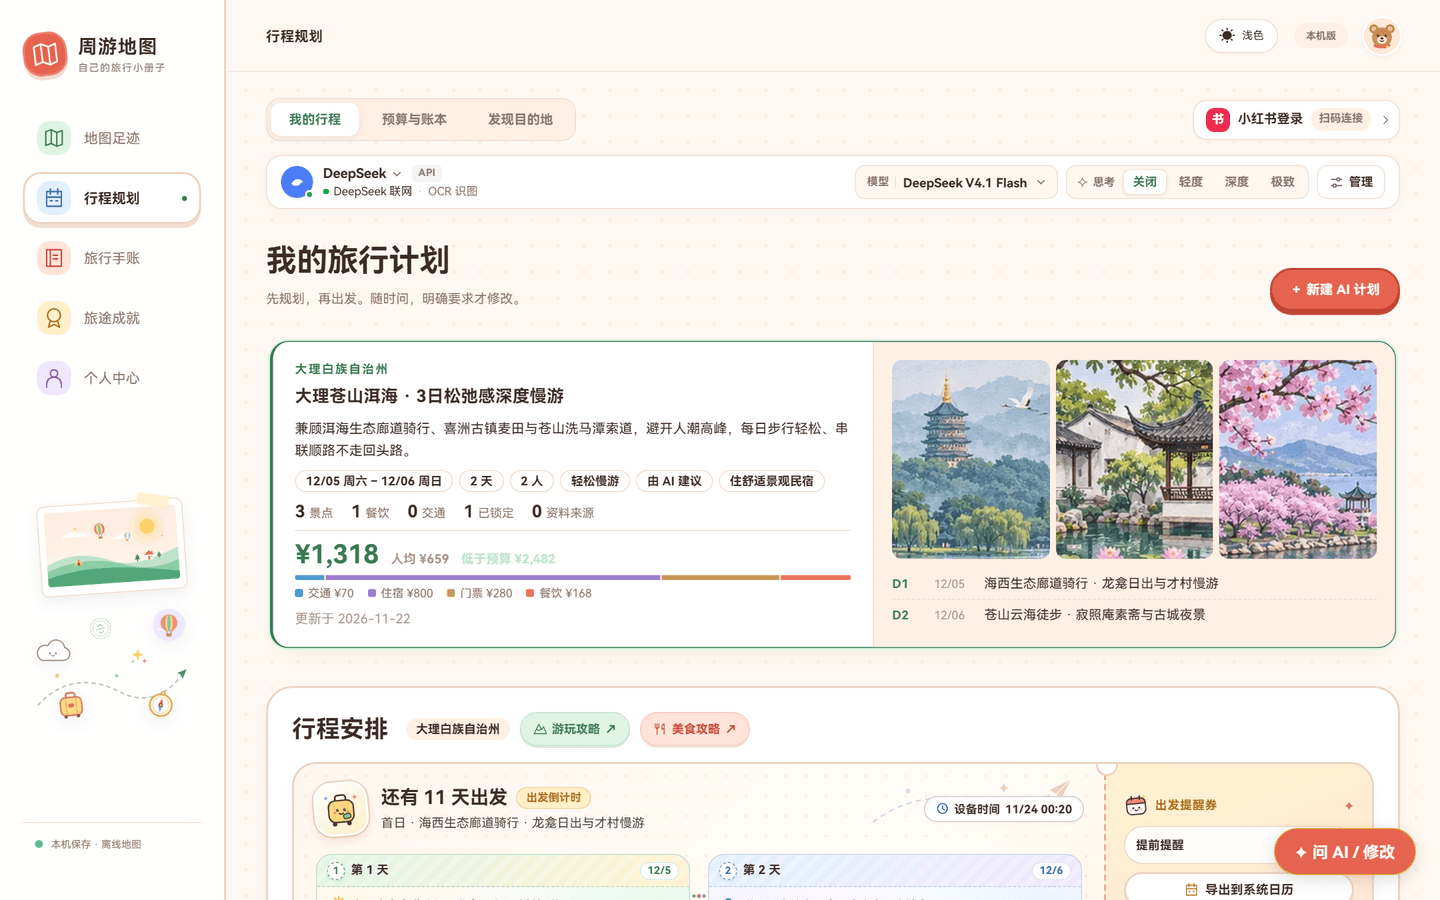
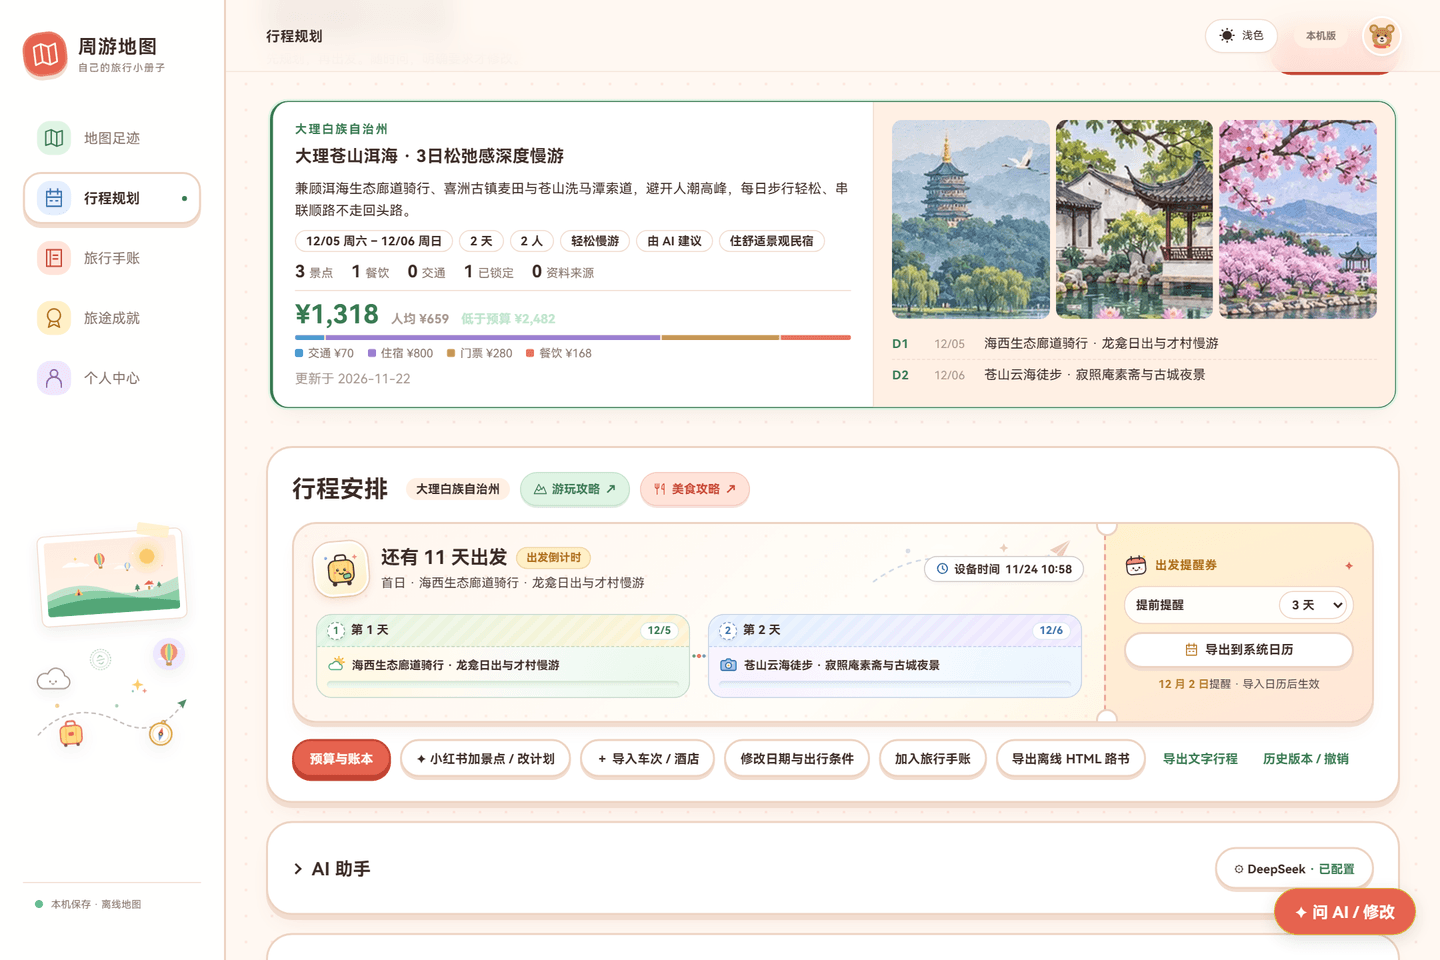
Add hero animated demo GIFs and refine README AI planner showcase

diff --git a/README.md b/README.md
@@ -37,11 +37,11 @@
 </p>
 
 <p>
+  <a href="https://eldonwyd.github.io/zhouyou-app/?demo=1"><b>🚀 一键在线试玩（含示例数据）</b></a>
+  &nbsp;·&nbsp;
   <a href="#-电脑版下载"><b>💻 电脑版下载</b></a>
   &nbsp;·&nbsp;
   <a href="#-手机版下载"><b>📱 手机版下载</b></a>
-  &nbsp;·&nbsp;
-  <a href="https://eldonwyd.github.io/zhouyou-app/"><b>✨ 在线网页版 (PWA)</b></a>
   &nbsp;·&nbsp;
   <a href="#-界面预览"><b>🖼 界面预览</b></a>
   &nbsp;·&nbsp;
@@ -49,6 +49,23 @@
   &nbsp;·&nbsp;
   <a href="#-开发者快速开始"><b>🛠 本地开发</b></a>
 </p>
+
+<br />
+
+<table>
+  <tr>
+    <td align="center" width="50%">
+      <img src="https://eldonwyd.github.io/zhouyou-app/screenshots/demo-ai-planner.gif" alt="AI 一键生成行程 → 地图自动连线 → 高铁票本地 OCR 自动记账" />
+      <br /><b>🤖 一句话生成行程 → 地图自动连线 → 高铁票本地 OCR 记账</b>
+    </td>
+    <td align="center" width="50%">
+      <img src="https://eldonwyd.github.io/zhouyou-app/screenshots/demo-map-journal.gif" alt="点亮中国省市地图 → 暖日手账与城市明信片 → 一键导出成就海报" />
+      <br /><b>🗺 一键点亮中国地图 → 暖日手账明信片 → 导出旅人成就海报</b>
+    </td>
+  </tr>
+</table>
+
+<p><sub>💡 第一次打开？直接点 <a href="https://eldonwyd.github.io/zhouyou-app/?demo=1"><b>在线演示模式（?demo=1）</b></a>，一键体验 14 座点亮城市、完整大理 AI 路书、照片手账与每日账本，随时一键清空。</sub></p>
 
 </div>
 
@@ -99,18 +116,18 @@
   <tr>
     <td align="center" width="50%">
       <img src="https://eldonwyd.github.io/zhouyou-app/screenshots/desktop-journal.png" alt="旅行手账与城市明信片" />
-      <br /><b>📔 旅行手账全景</b> — 每次旅程独立成册，自动匹配专属城市地标明信片
+      <br /><b>📔 旅行手账与城市明信片</b> — 每次旅程独立成册，珍藏原图照片、语音评语与专属城市明信片
     </td>
     <td align="center" width="50%">
-      <img src="https://eldonwyd.github.io/zhouyou-app/screenshots/desktop-trip-memories.png" alt="地点照片与旅途回忆墙" />
-      <br /><b>📸 照片记忆手账</b> — 按城市与地点珍藏原图照片、文字感悟与语音评语，随时翻阅重温
+      <img src="https://eldonwyd.github.io/zhouyou-app/screenshots/desktop-achievements.png" alt="旅途成就与成长路线" />
+      <br /><b>🏆 旅途成就与成长路线</b> — 八阶旅人成长里程碑、手作纪念章与一键导出分享海报
     </td>
   </tr>
 </table>
 
 <div align="center">
   <img src="https://eldonwyd.github.io/zhouyou-app/screenshots/desktop-planner.png" alt="AI 一键规划完整行程" width="100%" />
-  <p><i><b>🤖 AI 一键规划行程</b> —— 多模型自由切换，自动生成每日路线、实景配图、预算拆解、出发倒计时与小红书游玩 / 美食攻略直达</i></p>
+  <p><i><b>🤖 AI 一键规划行程</b> —— 每日顺路行程、实景配图、预算拆解、出发倒计时、日历提醒、小红书加景点与离线 HTML 路书导出</i></p>
 </div>
 
 <table>
@@ -120,8 +137,8 @@
       <br /><b>🔗 每日行程 · 联动高德 &amp; 小红书</b> — 一键跳转高德地图导航、去小红书搜同款、AI 局部微调与实时费用概览
     </td>
     <td align="center" width="50%">
-      <img src="https://eldonwyd.github.io/zhouyou-app/screenshots/desktop-achievements.png" alt="旅途成就与成长路线" />
-      <br /><b>🏆 旅途成就与深浅色主题</b> — 八阶旅人成长路线、手作纪念章与一键导出分享海报
+      <img src="https://eldonwyd.github.io/zhouyou-app/screenshots/desktop-planner-create.png" alt="一键新建 AI 计划与小红书攻略导入" />
+      <br /><b>✨ AI 计划定制 &amp; 攻略导入</b> — 提前录入机票酒店、粘贴小红书链接或攻略截图，一键融入行程
     </td>
   </tr>
 </table>

diff --git a/docs/README_EN.md b/docs/README_EN.md
@@ -28,14 +28,29 @@
 </p>
 
 <p>
+  <a href="https://eldonwyd.github.io/zhouyou-app/?demo=1"><b>🚀 Live Interactive Demo</b></a>
+  &nbsp;·&nbsp;
   <a href="#-desktop-download"><b>💻 Desktop Download</b></a>
   &nbsp;·&nbsp;
   <a href="#-mobile-download"><b>📱 Mobile Download</b></a>
   &nbsp;·&nbsp;
-  <a href="https://eldonwyd.github.io/zhouyou-app/"><b>✨ Live Web / PWA</b></a>
-  &nbsp;·&nbsp;
   <a href="#-screenshots"><b>🖼 Screenshots</b></a>
 </p>
+
+<br />
+
+<table>
+  <tr>
+    <td align="center" width="50%">
+      <img src="https://eldonwyd.github.io/zhouyou-app/screenshots/demo-ai-planner.gif" alt="AI Trip Planning -> Route Map -> Local OCR Booking Ledger" />
+      <br /><b>🤖 One-Prompt AI Plan → Auto Route Map → Local OCR Ticket Ledger</b>
+    </td>
+    <td align="center" width="50%">
+      <img src="https://eldonwyd.github.io/zhouyou-app/screenshots/demo-map-journal.gif" alt="Light Up Map -> Warm Travel Journal -> Export Poster" />
+      <br /><b>🗺 Light Up Footprint Map → Travel Journal → Export Poster</b>
+    </td>
+  </tr>
+</table>
 
 </div>
 
@@ -68,29 +83,29 @@
   <tr>
     <td align="center" width="50%">
       <img src="https://eldonwyd.github.io/zhouyou-app/screenshots/desktop-journal.png" alt="Travel Journal" />
-      <br /><b>📔 Travel Journal</b> — trip booklets &amp; illustrated city postcards
+      <br /><b>📔 Travel Journal &amp; Postcards</b> — trip booklets, photo &amp; voice memories, and illustrated city postcards
     </td>
     <td align="center" width="50%">
-      <img src="https://eldonwyd.github.io/zhouyou-app/screenshots/desktop-trip-memories.png" alt="Photo Memories" />
-      <br /><b>📸 Photo Memories</b> — organize original photos, notes &amp; voice memos by city and spot
+      <img src="https://eldonwyd.github.io/zhouyou-app/screenshots/desktop-achievements.png" alt="Traveler Achievements" />
+      <br /><b>🏆 Traveler Achievements</b> — 8-stage roadmap, custom stamps &amp; shareable posters
     </td>
   </tr>
 </table>
 
 <div align="center">
   <img src="https://eldonwyd.github.io/zhouyou-app/screenshots/desktop-planner.png" alt="One-Click AI Trip Planner" width="100%" />
-  <p><i><b>🤖 One-Click AI Trip Planner</b> — multi-model planning with scenic cards, budget breakdown, countdown &amp; direct Xiaohongshu guides</i></p>
+  <p><i><b>🤖 One-Click AI Trip Planner</b> — scenic cards, budget breakdown, countdown, calendar export &amp; offline HTML roadbook</i></p>
 </div>
 
 <table>
   <tr>
     <td align="center" width="50%">
       <img src="https://eldonwyd.github.io/zhouyou-app/screenshots/desktop-planner-day.png" alt="Daily Itinerary with Amap and Xiaohongshu" />
-      <br /><b>🔗 Daily Plan · Amap &amp; Xiaohongshu</b> — one-click Amap lookup, Xiaohongshu search, AI tweaks &amp; live budget
+      <br /><b>🔗 Daily Plan · Amap &amp; Xiaohongshu</b> — one-click Amap navigation, Xiaohongshu search, AI tweaks &amp; live budget
     </td>
     <td align="center" width="50%">
-      <img src="https://eldonwyd.github.io/zhouyou-app/screenshots/desktop-achievements.png" alt="Traveler Achievements" />
-      <br /><b>🏆 Traveler Achievements</b> — 8-stage roadmap, custom stamps &amp; shareable posters
+      <img src="https://eldonwyd.github.io/zhouyou-app/screenshots/desktop-planner-create.png" alt="Custom AI Plan Creation and Xiaohongshu Import" />
+      <br /><b>✨ Custom AI Plan &amp; Guide Import</b> — import tickets, hotels &amp; Xiaohongshu notes directly into your itinerary
     </td>
   </tr>
 </table>
